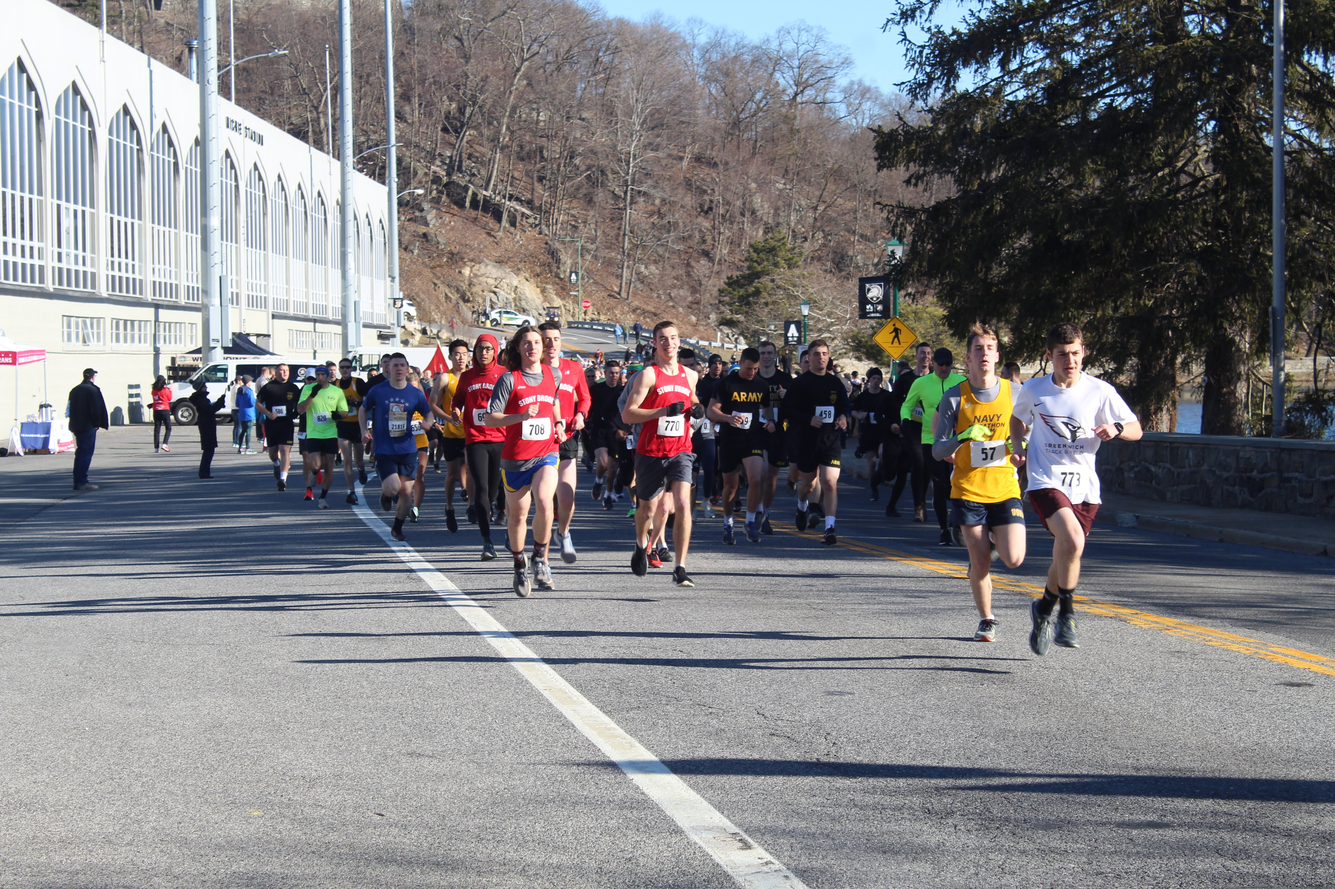
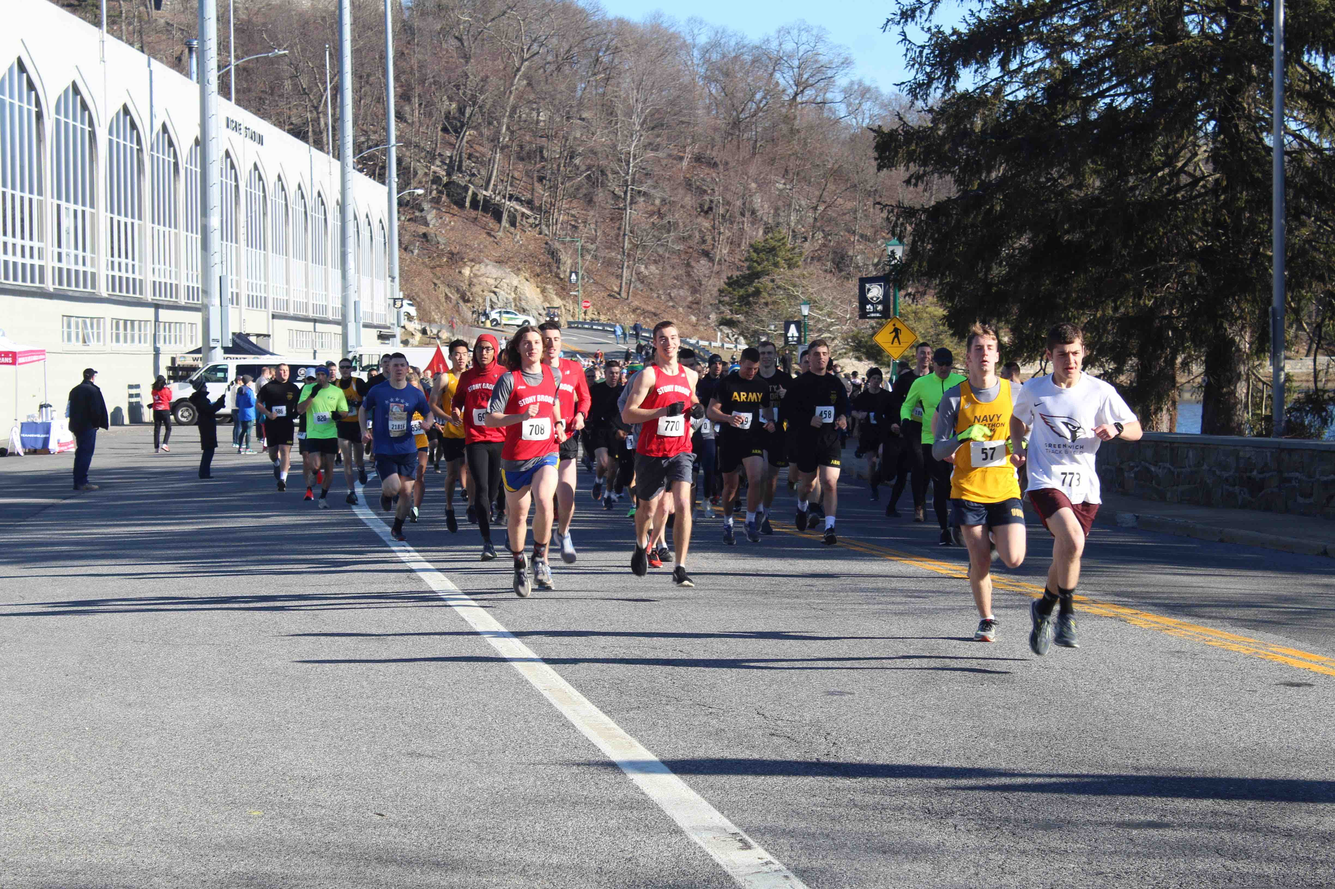
make smaller images

diff --git a/_includes/sidebar.html b/_includes/sidebar.html
@@ -24,7 +24,7 @@
   {% endif %} -->
 
   <div class="widget widget-social" style="text-align: center">
-    <img style="border-radius: 50%; max-width: 100px" src="{{"/img/profile.png" | prepend: site.baseurl}}">
+    <img style="border-radius: 50%; max-width: 100px" src="{{"/img/profile.jpg" | prepend: site.baseurl}}">
     <h3 class="widget-title">Social</h3>
     <ul class="social-profiles list-reset">
       {% if site.linkedin %}
